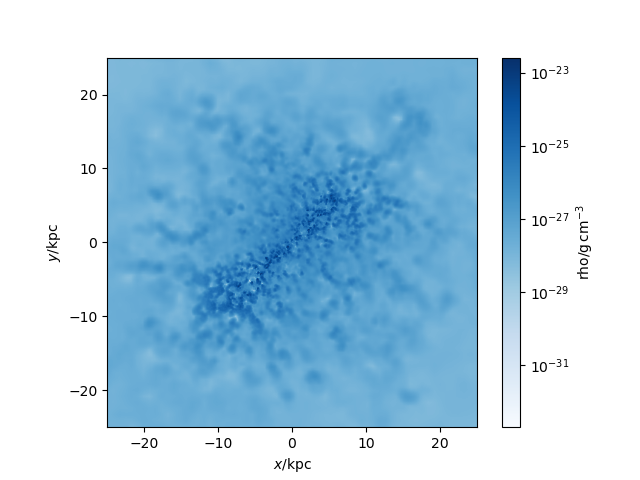
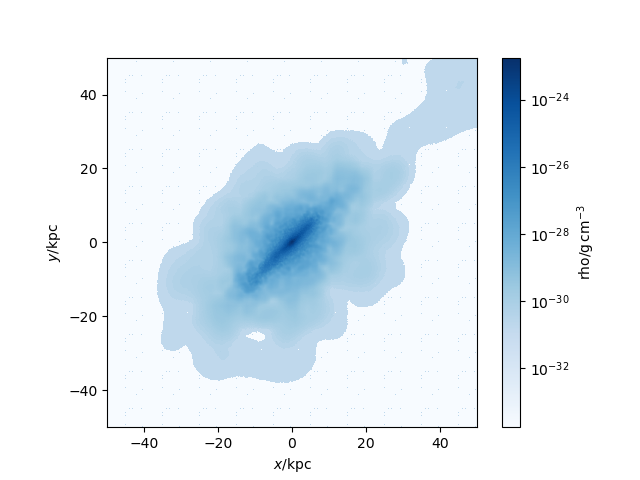
.

diff --git a/basicProfiles.py b/basicProfiles.py
@@ -29,11 +29,11 @@ for i,f in enumerate([files[0]]):
 
     # a first image
     s.physical_units()
-    pynbody.plot.image(h1.s, qty='rho', units='g cm^-3', width=20, cmap='Blues', filename='figures/images/r'+str(haloIDs[i])+'CDM_img1.png')
+    pynbody.plot.image(h1.s, qty='rho', units='g cm^-3', width=100, cmap='Blues', filename='figures/images/r'+str(haloIDs[i])+'CDM_img1.png')
 
     # side on
-    pynbody.analysis.angmom.sideon(h1, cen=(0,0,0))
-    pynbody.plot.image(h1.g, width = 30, cmap='Blues', filename='figures/images/r'+str(haloIDs[i])+'CDM_img2.png')
+    #pynbody.analysis.angmom.sideon(h1, cen=(0,0,0))
+    #pynbody.plot.image(h1.g, width = 30, cmap='Blues', filename='figures/images/r'+str(haloIDs[i])+'CDM_img2.png')
 
     # back to face
     s.rotate_x(90)
